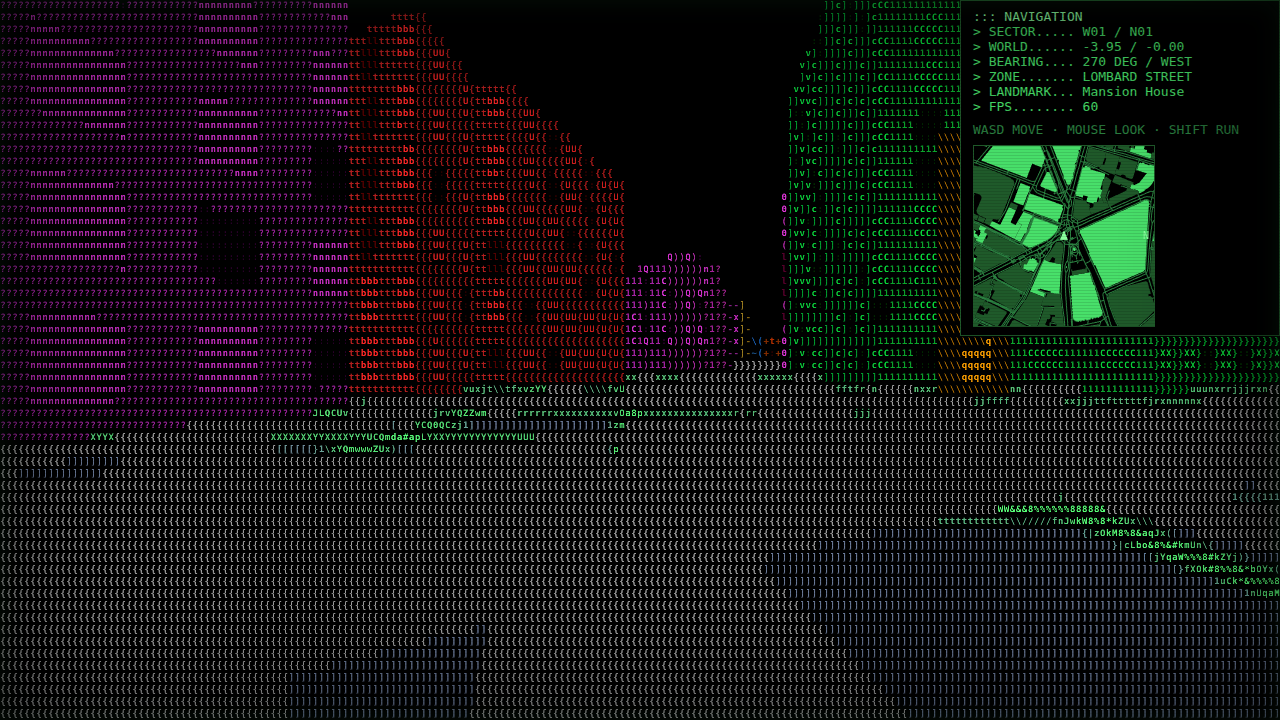
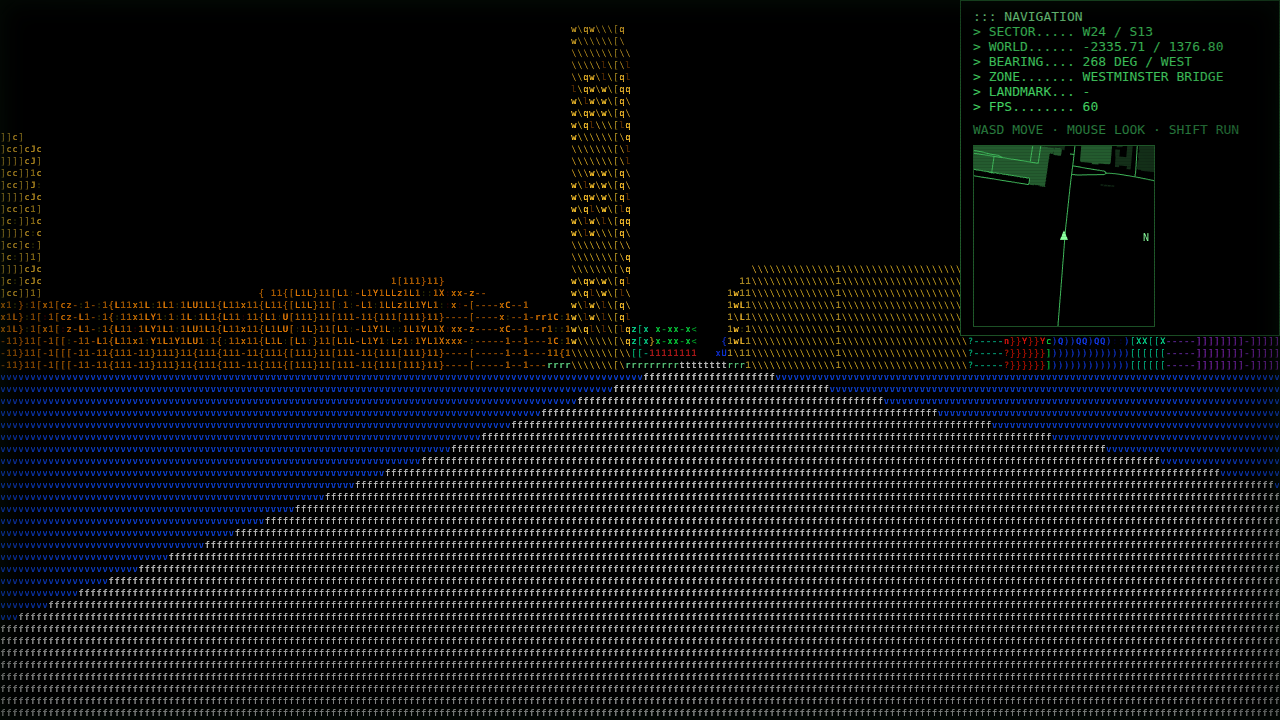
PM: Big Ben default verified — README screenshot, STATE checkpoint

Changed region(s): [[0.0, 0.0, 1.0, 1.0], [0.8438, 0.0306, 0.9688, 0.1528]]

diff --git a/.tigerteam/STATE.md b/.tigerteam/STATE.md
@@ -54,6 +54,8 @@ OSM building footprints via Overpass (`docs/data-format.md`). "Done" for wave 1
 
 - 2026-08-24 01:40 — 25/29 done. Wave 3 landed: minimap contrast, `?at=` presets + coordinates, Thames/dock water (data + render + collision), **Westminster dataset** (bbox −0.130…−0.070 / 51.497…51.521, origin still Bank, footways dropped: 9061 buildings / 7803 roads / 99 places / 31 water, 2.8 MB). User playtested and asked for a Big Ben start → T-0027 done, T-0028 (default spawn on Westminster Bridge @268°, verified visually via `?at=-0.12235,51.50085,268`: tower dead ahead) claimable; T-0025 touch, T-0026 landmark spawns, T-0029 landmark colours queued.
 
+- 2026-08-24 02:20 — **29/30 done.** Big Ben default spawn (T-0028) + walkable bridges (T-0030: `Road.bridge` flag, `CollisionGrid` corridors override water) + touch controls (T-0025) + landmark colours (T-0029) merged. Verified on GPU: default `/` spawns mid-Westminster-Bridge at x≈−2331, ZONE WESTMINSTER BRIDGE, walking west works. Pushed to origin. Remaining: T-0026 (data-driven landmark spawns).
+
 ## Next actions
 1. Wave 3 (drafting 2026-08-24 01:05): T-0021 minimap contrast (named buildings too bright in the real city), T-0022 spawn presets `?at=`, T-0023 Thames water (data + world/water.ts + collision), T-0024 touch controls (P3).
 2. User must set GitHub → Settings → Pages → Source: **GitHub Actions** for the deploy job to succeed (main pushed 2026-08-24).

diff --git a/README.md b/README.md
@@ -1,6 +1,6 @@
 # AsciiCity
 
-![AsciiCity at Bank junction, facing west along Lombard Street](docs/screenshot.png)
+![AsciiCity on Westminster Bridge, facing Big Ben](docs/screenshot.png)
 
 A static browser minigame: walk around the City of London in first person,
 rendered as coloured ASCII glyphs with a green NAVIGATION HUD. Built with Vite,
